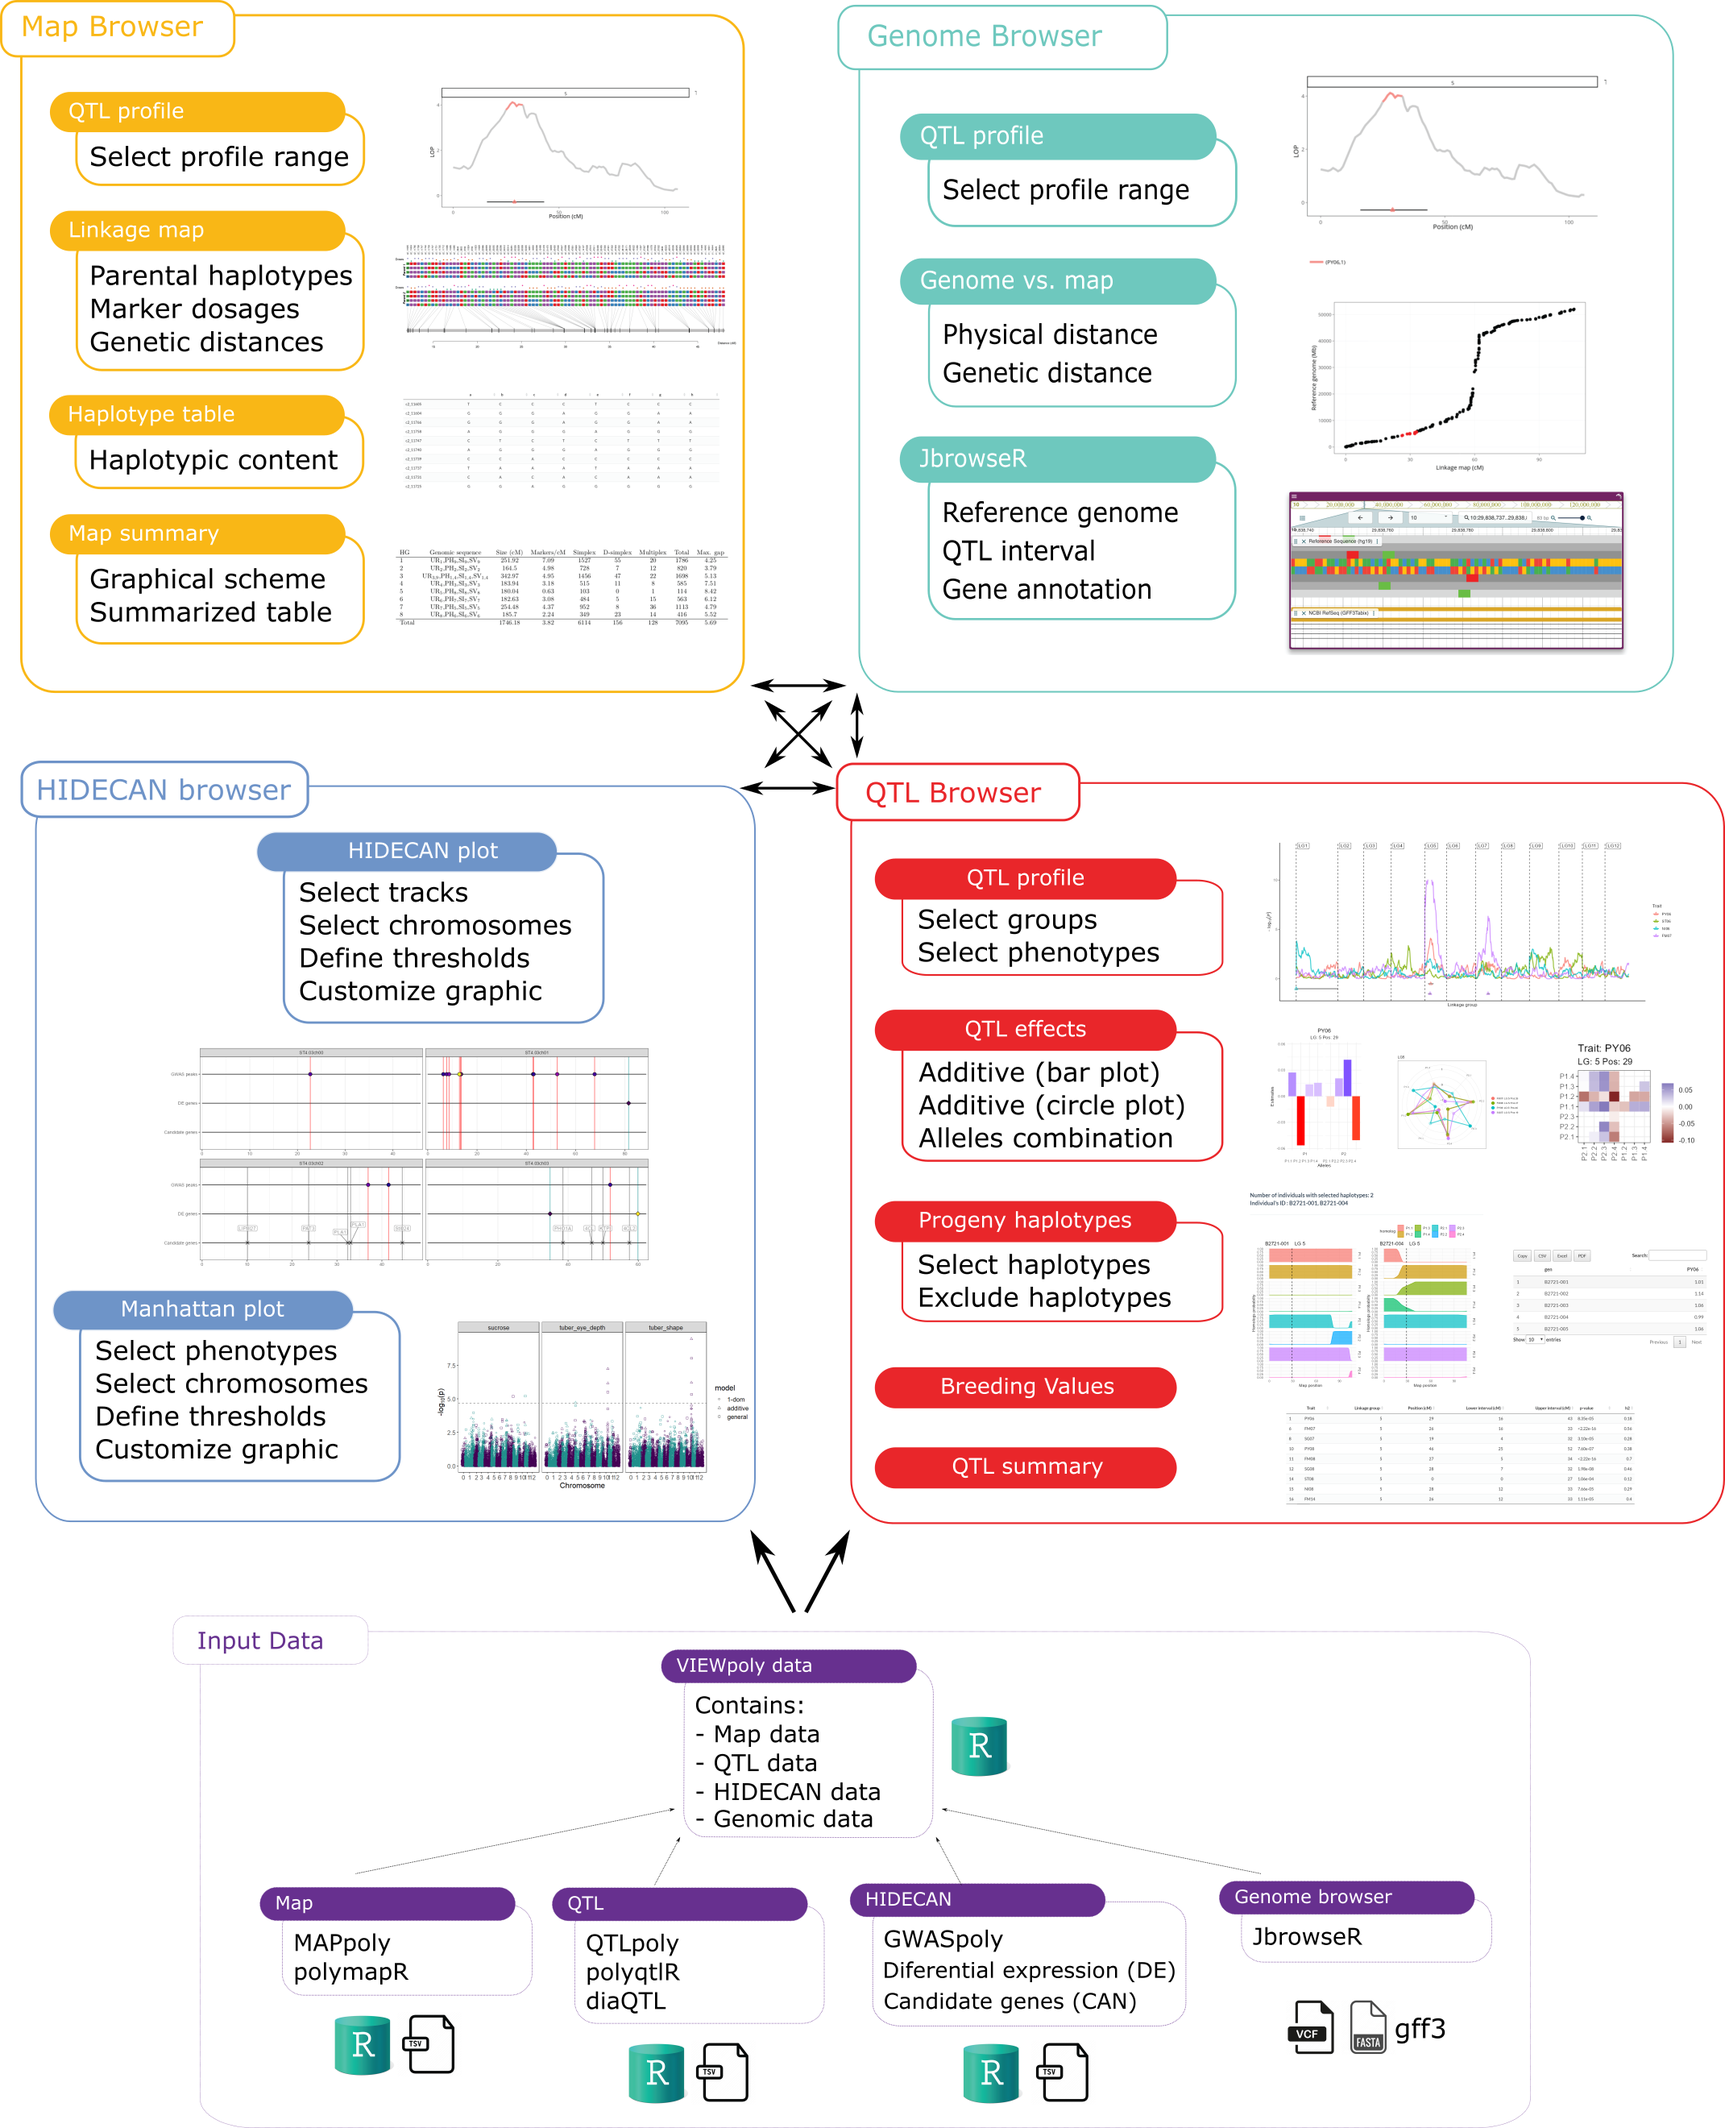
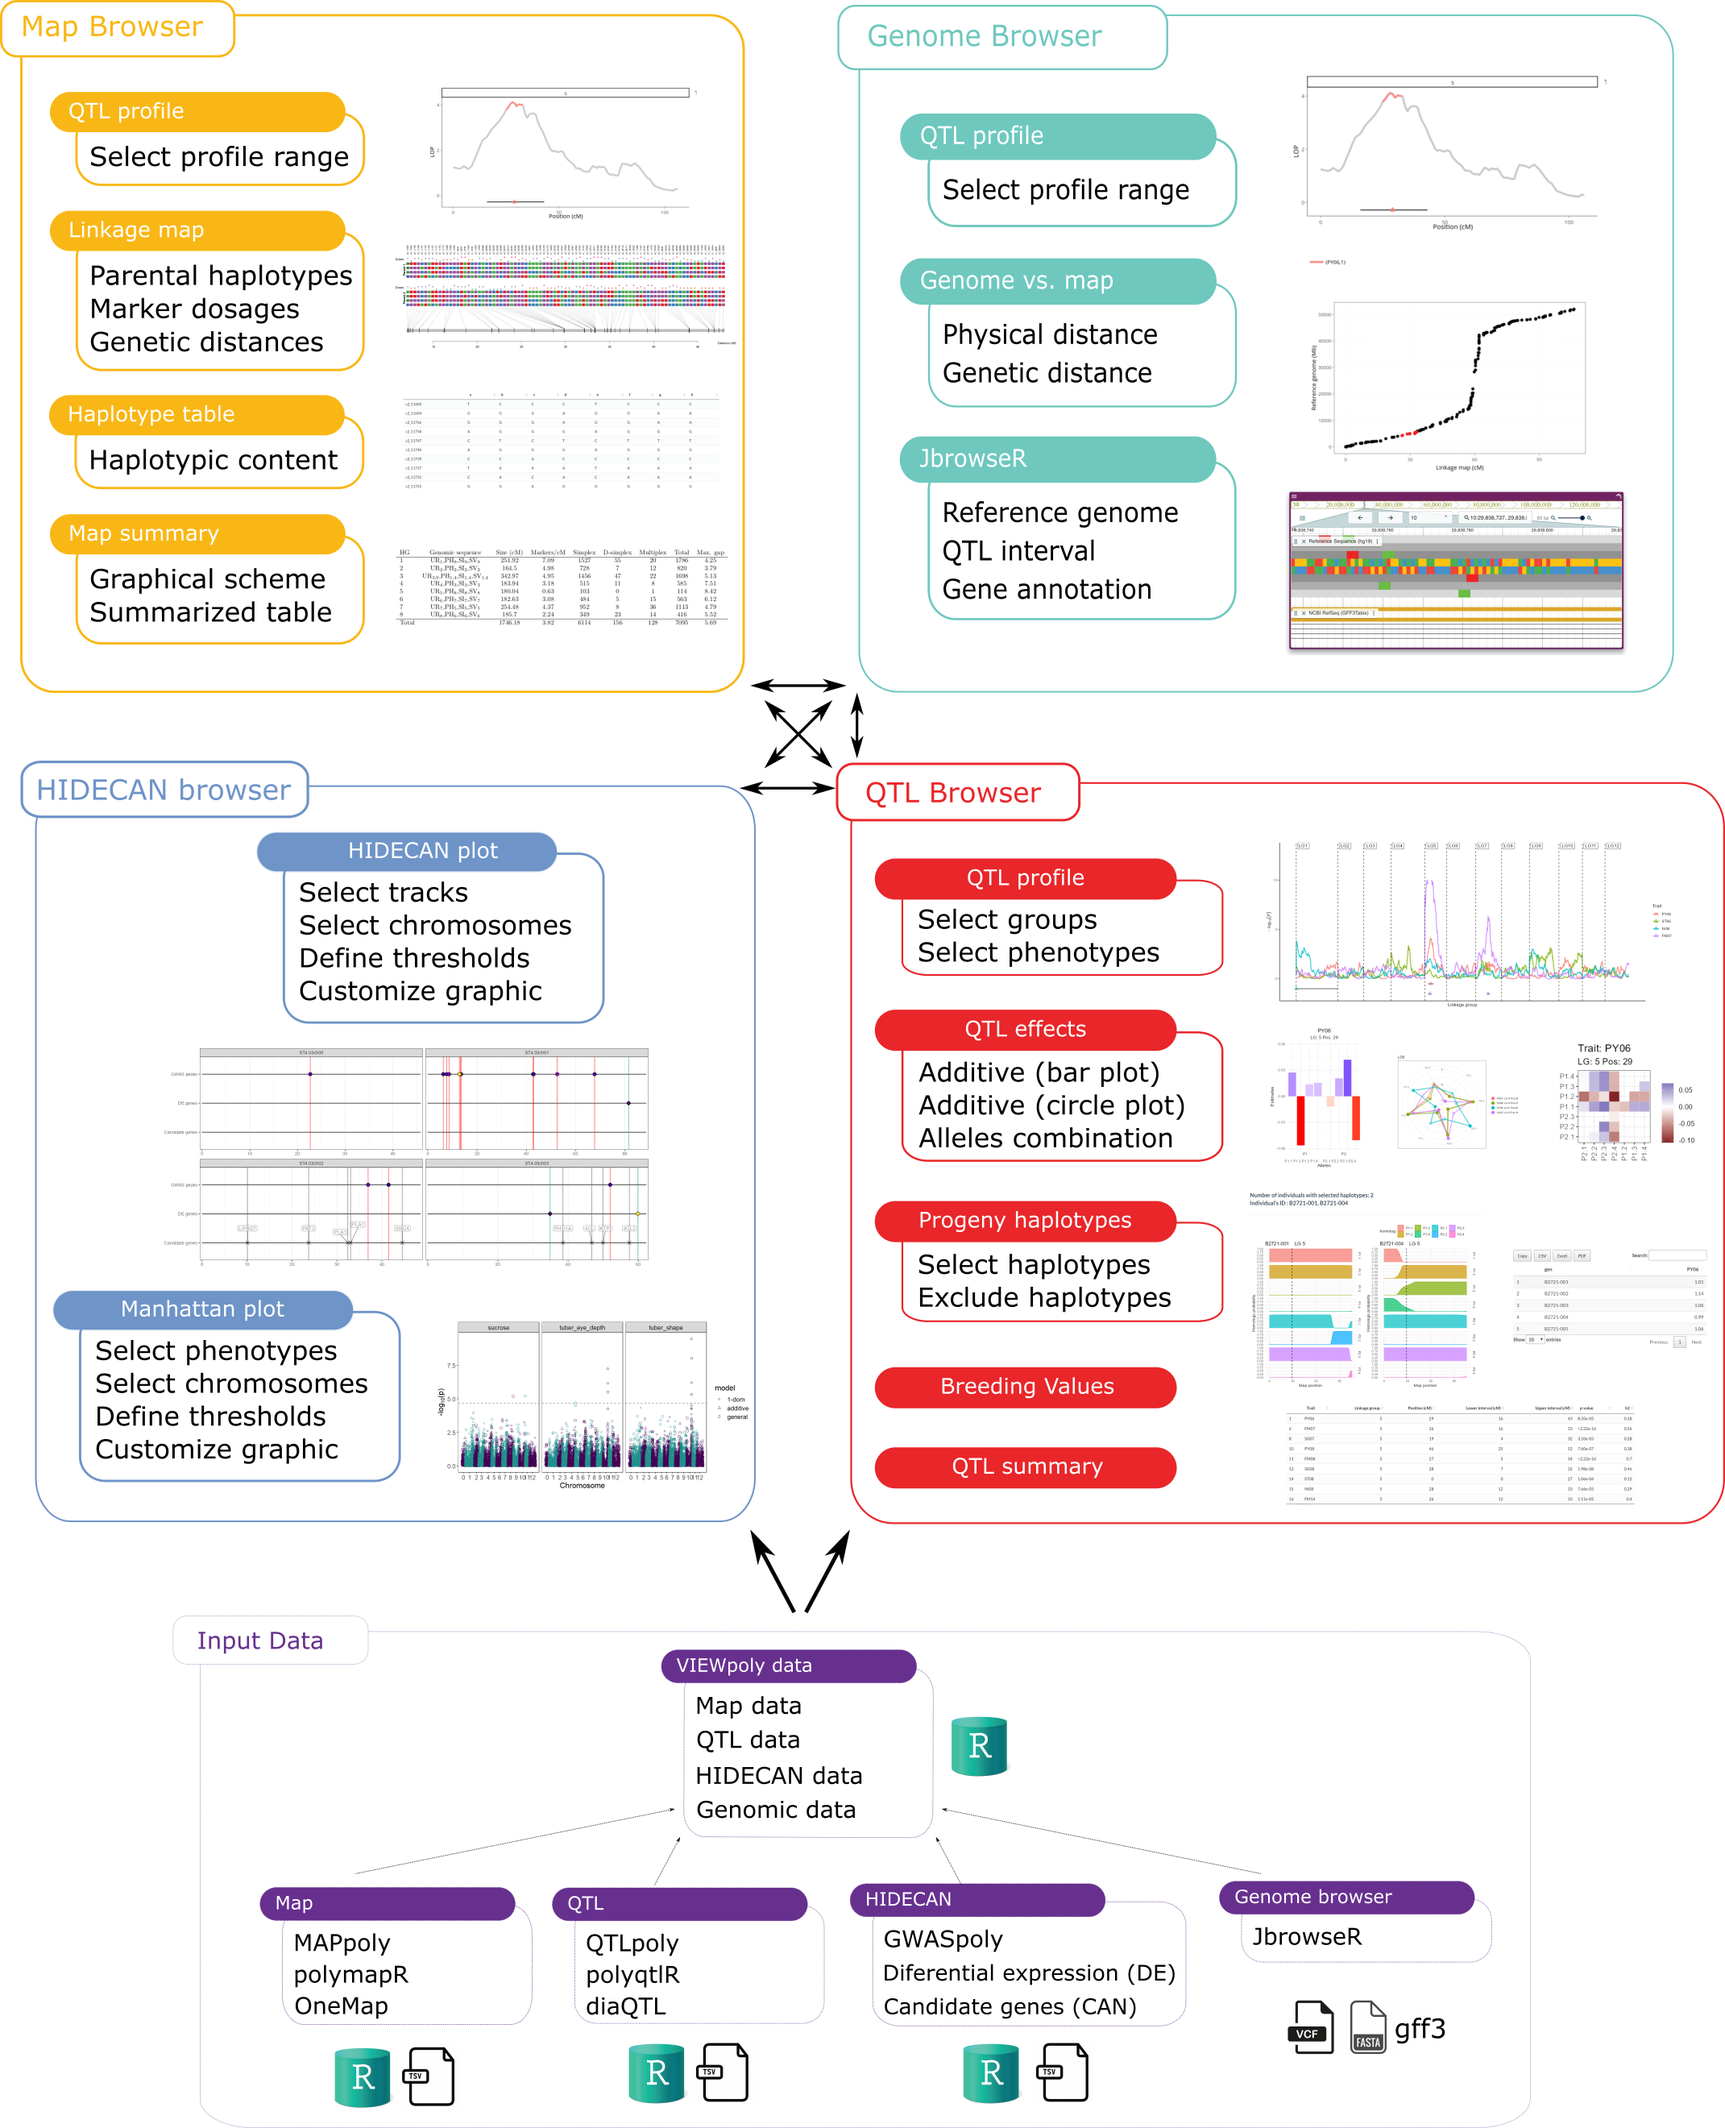
rm coverage

diff --git a/README.md b/README.md
@@ -10,7 +10,7 @@
   
 # VIEWpoly <img src="https://user-images.githubusercontent.com/7572527/145726577-7b01d48b-ca1d-446b-b9c8-aff8c3c9877b.png" align="right" width="230"/>
 
-`VIEWpoly` is a shiny app and R package for visualizing and exploring results from [polyploid computational tools](https://www.polyploids.org/) using an interactive graphical user interface. The package allows users to directly upload output files from [polymapR](https://CRAN.R-project.org/package=polymapR), [MAPpoly](https://CRAN.R-project.org/package=mappoly) , [polyqtlR](https://CRAN.R-project.org/package=polyqtlR), [QTLpoly](https://CRAN.R-project.org/package=qtlpoly), 
+`VIEWpoly` is a shiny app and R package for visualizing and exploring results from [polyploid computational tools](https://www.polyploids.org/) using an interactive graphical user interface. The package allows users to directly upload output files from [polymapR](https://CRAN.R-project.org/package=polymapR), [MAPpoly](https://CRAN.R-project.org/package=mappoly) , [OneMap](https://github.com/Cristianetaniguti/onemap), [polyqtlR](https://CRAN.R-project.org/package=polyqtlR), [QTLpoly](https://CRAN.R-project.org/package=qtlpoly), 
 [diaQTL](https://github.com/jendelman/diaQTL), [GWASpoly](https://github.com/jendelman/GWASpoly), [HIDECAN](https://cran.r-project.org/web/packages/hidecan/index.html), and genomic assembly, variants, annotation and alignment files. VIEWpoly uses [shiny](https://CRAN.R-project.org/package=shiny), [golem](https://CRAN.R-project.org/package=golem), [ggplot2](https://CRAN.R-project.org/package=ggplot2), [plotly](https://CRAN.R-project.org/package=plotly), and [JBrowseR]( https://CRAN.R-project.org/package=JBrowseR) libraries to graphically display the QTL profiles, positions, alleles estimated effects, progeny individuals containing specific haplotypes and their breeding values. It is also possible to access marker dosage and parental phase from the linkage map. If genomic information is available, the corresponding QTL positions are interactively explored using JBrowseR interface, allowing the search for candidate genes. It also provides features to download specific information into comprehensive tables and images for further analysis and presentation.
 
 ### Quick Start
@@ -45,8 +45,8 @@ NOTE: Windows users may need to install the `Rtools` before compiling the packag
 You can also access `VIEWpoly` though the Docker image:
 
 ```{bash}
-docker pull cristaniguti/viewpoly:0.2.1  
-docker run --rm -e USERID=$(id -u) -e GROUPID=$(id -g) -p 8085:80 -e DISABLE_AUTH=true cristaniguti/viewpoly:0.2.1
+docker pull cristaniguti/viewpoly:0.2.2  
+docker run --rm -e USERID=$(id -u) -e GROUPID=$(id -g) -p 8085:80 -e DISABLE_AUTH=true cristaniguti/viewpoly:0.2.2
 ```
 
 This will make the container available in port 8085 (choose other if you prefer). After, you just need to go to your favorite browser and search for <your_localhost>:8085 (example: 127.0.0.1:8085). That is it! Everything you need is there.
@@ -57,6 +57,7 @@ The `Input data` tab has options for several types of inputs. You can upload dir
 
 * [MAPpoly](https://CRAN.R-project.org/package=mappoly)
 * [polymapR](https://CRAN.R-project.org/package=polymapR)
+* [OneMap](https://github.com/Cristianetaniguti/onemap)
 * [polyqtlR](https://CRAN.R-project.org/package=polyqtlR)
 * [QTLpoly](https://CRAN.R-project.org/package=qtlpoly)
 * [diaQTL](https://github.com/jendelman/diaQTL)
@@ -98,6 +99,8 @@ Amadeu RR, Muñoz PR , Zheng C, Endelman JB. 2021."QTL mapping in outbred tetrap
 Bourke PM , van Geest G, Voorrips RE, Jansen J, Kranenburg T, Shahin A, Visser RGF , Arens P, Smulders MJM , Maliepaard C. 2018."polymapR—linkage analysis and genetic map construction from F1 populations of outcrossing polyploids." Bioinformatics, 34 (20): 3496–3502, https://doi.org/10.1093/bioinformatics/bty371
 
 Bourke PM, Voorrips RE, Hackett CA, van Geest G, Willemsen JH, Arens P, Smulders MJM, Visser RGF, Maliepaard C. 2021."Detecting quantitative trait loci and exploring chromosomal pairing in autopolyploids using polyqtlR." Bioinformatics, 37 (21): 3822–3829, https://doi.org/10.1093/bioinformatics/btab574
+
+Taniguti, C. H.; Taniguti, L. M.; Amadeu, R. R.; Lau, J.; de Siqueira Gesteira, G.; Oliveira, T. de P.; Ferreira, G. C.; Pereira, G. da S.;  Byrne, D.;  Mollinari, M.; Riera-Lizarazu, O.; Garcia, A. A. F. Developing best practices for genotyping-by-sequencing analysis in the construction of linkage maps. GigaScience, 12, giad092. https://doi.org/10.1093/gigascience/giad092
 
 ### Acknowledgment
 
